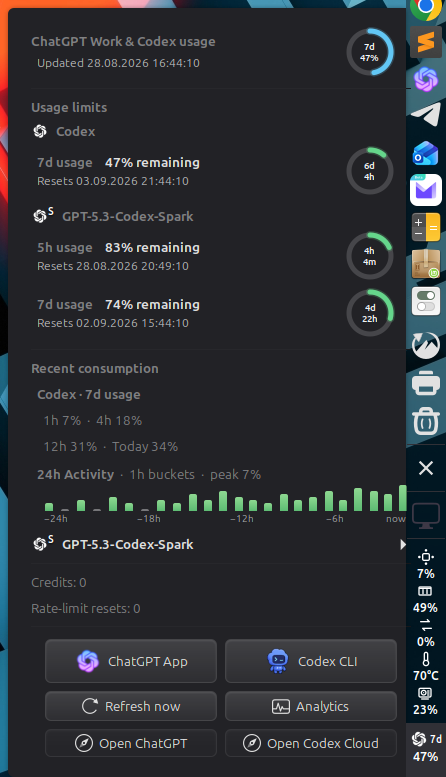
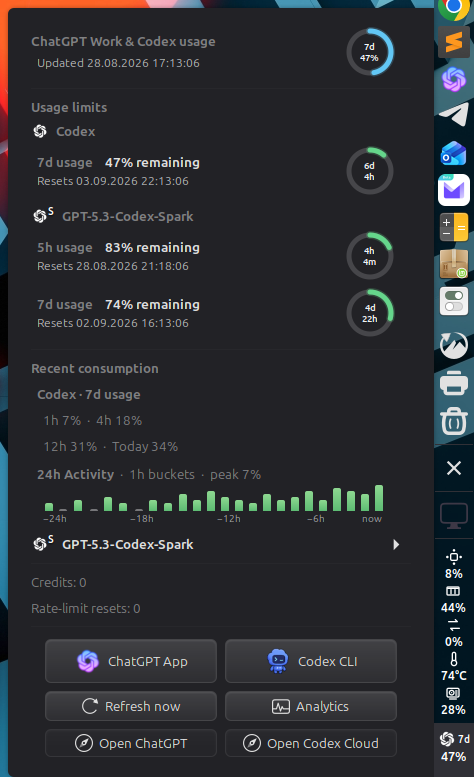
Prepare v0.2.1 popup polish

diff --git a/applet.js b/applet.js
@@ -29,7 +29,10 @@ const CODEX_CLI_INSTALL_URL = "https://learn.chatgpt.com/docs/codex/cli#getting-
 const PANEL_FONT_SCALE = 0.95;
 const PANEL_LABEL_SCALE = 0.79;
 const ACTIVITY_TOOLTIP_DELAY_MS = 120;
-const POPUP_RING_RIGHT_INSET = 15;
+const POPUP_ACTION_GRID_WIDTH = 352;
+const POPUP_RIGHT_INSET = 15;
+const POPUP_CHART_RIGHT_INSET = 25;
+const POPUP_SUBMENU_ARROW_OFFSET = -15;
 
 class ChatGptUsageApplet extends Applet.Applet {
     constructor(metadata, orientation, panelHeight, instanceId) {
@@ -49,7 +52,6 @@ class ChatGptUsageApplet extends Applet.Applet {
         this._refreshConfirmationTimeoutId = 0;
         this._refreshSpinnerTimeoutId = 0;
         this._menuRebuildTimeoutId = 0;
-        this._actionWidthLockTimeoutId = 0;
         this._refreshButton = null;
         this._refreshButtonIcon = null;
         this._refreshButtonLabel = null;
@@ -59,7 +61,7 @@ class ChatGptUsageApplet extends Applet.Applet {
         this._actionFrame = null;
         this._actionWidthFrame = null;
         this._actionColumn = null;
-        this._actionColumnWidth = 0;
+        this._actionColumnWidth = POPUP_ACTION_GRID_WIDTH;
         this._installHelpDialog = null;
         this._refreshConfirmed = false;
         this._busy = false;
@@ -178,25 +180,8 @@ class ChatGptUsageApplet extends Applet.Applet {
             if (open) {
                 const width = Math.ceil(menu.actor.get_width());
                 if (width > 0) menu.actor.set_width(width);
-                this._actionWidthLockTimeoutId = Mainloop.idle_add(() => {
-                    this._actionWidthLockTimeoutId = 0;
-                    if (menu.isOpen && this._actionWidthFrame && this._actionFrame) {
-                        const actionWidth = Math.ceil(this._actionFrame.get_width());
-                        if (actionWidth > 0) {
-                            this._actionColumnWidth = actionWidth;
-                            this._setActionColumnWidth(actionWidth);
-                        }
-                    }
-                    return GLib.SOURCE_REMOVE;
-                });
             } else {
                 menu.actor.set_width(-1);
-                if (this._actionWidthLockTimeoutId) {
-                    Mainloop.source_remove(this._actionWidthLockTimeoutId);
-                    this._actionWidthLockTimeoutId = 0;
-                }
-                this._setActionColumnWidth(0);
-                this._actionColumnWidth = 0;
             }
         });
         this._rebuildMenu();
@@ -213,6 +198,7 @@ class ChatGptUsageApplet extends Applet.Applet {
         if (!this._actionWidthFrame) return;
         if (width > 0) {
             this._actionWidthFrame.set_width(width);
+            if (this._actionColumn) this._actionColumn.set_width(width);
             this._actionWidthFrame.min_width = width;
             this._actionWidthFrame.natural_width = width;
             this._actionWidthFrame.min_width_set = true;
@@ -220,8 +206,25 @@ class ChatGptUsageApplet extends Applet.Applet {
             return;
         }
         this._actionWidthFrame.set_width(-1);
+        if (this._actionColumn) this._actionColumn.set_width(-1);
         this._actionWidthFrame.min_width_set = false;
         this._actionWidthFrame.natural_width_set = false;
+    }
+
+    _syncActionColumnCentering() {
+        if (
+            !this.menu ||
+            !this._actionWidthFrame ||
+            !this._actionWidthFrame.get_stage()
+        ) return;
+        this._actionWidthFrame.translation_x = 0;
+        const [menuX] = this.menu.actor.get_transformed_position();
+        const [menuWidth] = this.menu.actor.get_transformed_size();
+        const [gridX] = this._actionWidthFrame.get_transformed_position();
+        const [gridWidth] = this._actionWidthFrame.get_transformed_size();
+        const menuCenter = menuX + menuWidth / 2;
+        const gridCenter = gridX + gridWidth / 2;
+        this._actionWidthFrame.translation_x = Math.round(menuCenter - gridCenter);
     }
 
     _rebuildPanel() {
@@ -490,7 +493,7 @@ class ChatGptUsageApplet extends Applet.Applet {
             x_expand: true,
             y_align: Clutter.ActorAlign.CENTER
         });
-        row.style = `padding-right: ${POPUP_RING_RIGHT_INSET}px;`;
+        row.style = `padding-right: ${POPUP_RIGHT_INSET}px;`;
         row.add_child(text);
 
         if (this._snapshot) {
@@ -600,7 +603,7 @@ class ChatGptUsageApplet extends Applet.Applet {
             x_expand: true,
             y_align: Clutter.ActorAlign.CENTER
         });
-        row.style = `padding-right: ${POPUP_RING_RIGHT_INSET}px;`;
+        row.style = `padding-right: ${POPUP_RIGHT_INSET}px;`;
         row.add_child(text);
         row.add_child(countdown);
         item.addActor(row, { expand: true, span: -1 });
@@ -758,13 +761,14 @@ class ChatGptUsageApplet extends Applet.Applet {
             reactive: false,
             activate: false
         });
+        item.actor.style = "padding-left: 0px; padding-right: 0px;";
         const column = new St.BoxLayout({ vertical: true });
         column.style = "spacing: 8px; padding: 2px 0;";
         column.x_expand = true;
         column.x_align = Clutter.ActorAlign.FILL;
         const actionWidthFrame = new St.Widget({
             layout_manager: new Clutter.BinLayout(),
-            x_align: Clutter.ActorAlign.START
+            x_align: Clutter.ActorAlign.CENTER
         });
         actionWidthFrame.add_child(column);
         const actionFrame = new St.Widget({
@@ -775,6 +779,10 @@ class ChatGptUsageApplet extends Applet.Applet {
         this._actionFrame = actionFrame;
         this._actionWidthFrame = actionWidthFrame;
         this._actionColumn = column;
+        actionFrame.connect(
+            "notify::allocation",
+            () => this._syncActionColumnCentering()
+        );
         if (this._actionColumnWidth > 0) {
             this._setActionColumnWidth(this._actionColumnWidth);
         }
@@ -1212,6 +1220,8 @@ class ChatGptUsageApplet extends Applet.Applet {
                 const submenu = new PopupMenu.PopupSubMenuMenuItem(
                     ""
                 );
+                submenu.actor.style = `padding-right: ${POPUP_RIGHT_INSET}px;`;
+                submenu._triangle.translation_x = POPUP_SUBMENU_ARROW_OFFSET;
                 if ("overlay_scrollbars" in submenu.menu.actor) {
                     submenu.menu.actor.overlay_scrollbars = true;
                 }
@@ -1324,7 +1334,10 @@ class ChatGptUsageApplet extends Applet.Applet {
         column.add_child(caption);
 
         const chart = new St.BoxLayout({ vertical: true, x_expand: true });
-        chart.style = "padding-left: 10px;";
+        chart.style = [
+            "padding-left: 10px",
+            `padding-right: ${POPUP_CHART_RIGHT_INSET}px`
+        ].join("; ") + ";";
 
         const plot = new St.Widget({
             layout_manager: new Clutter.BoxLayout({ homogeneous: true }),
@@ -1630,10 +1643,6 @@ class ChatGptUsageApplet extends Applet.Applet {
         if (this._menuRebuildTimeoutId) {
             Mainloop.source_remove(this._menuRebuildTimeoutId);
             this._menuRebuildTimeoutId = 0;
-        }
-        if (this._actionWidthLockTimeoutId) {
-            Mainloop.source_remove(this._actionWidthLockTimeoutId);
-            this._actionWidthLockTimeoutId = 0;
         }
         this._stopRefreshSpinner();
         if (this._cancellable) {

diff --git a/README.md b/README.md
@@ -67,7 +67,7 @@ cd cinnamon-chatgpt-usage
 Then open **System Settings → Applets** and add **ChatGPT Usage** to a panel.
 Requirements: Cinnamon 5.8+, Python 3 and a current
 [Codex CLI](https://learn.chatgpt.com/docs/codex/cli#getting-started) signed in
-with ChatGPT. Version 0.2.0 is tested on Cinnamon 6.6.9 with Codex CLI 0.150.1.
+with ChatGPT. Version 0.2.1 is tested on Cinnamon 6.6.9 with Codex CLI 0.150.1.
 
 Run `./install.sh` again after updates. `./uninstall.sh` removes the applet while
 retaining its settings.

diff --git a/CHANGELOG.md b/CHANGELOG.md
@@ -1,9 +1,12 @@
 # Changelog
 
-## Unreleased
+## 0.2.1 — 2026-08-28
 
-- Keep quota and reset-progress rings fully inside the popup when Cinnamon's
-  native model-history submenu adds its scrollbar allocation.
+- Keep quota and reset-progress rings plus 24-hour charts fully inside the
+  popup when Cinnamon's native model-history submenu adds its scrollbar
+  allocation.
+- Keep the action-button grid exactly centered with stable button widths
+  throughout native submenu animations.
 
 ## 0.2.0 — 2026-08-28
 
